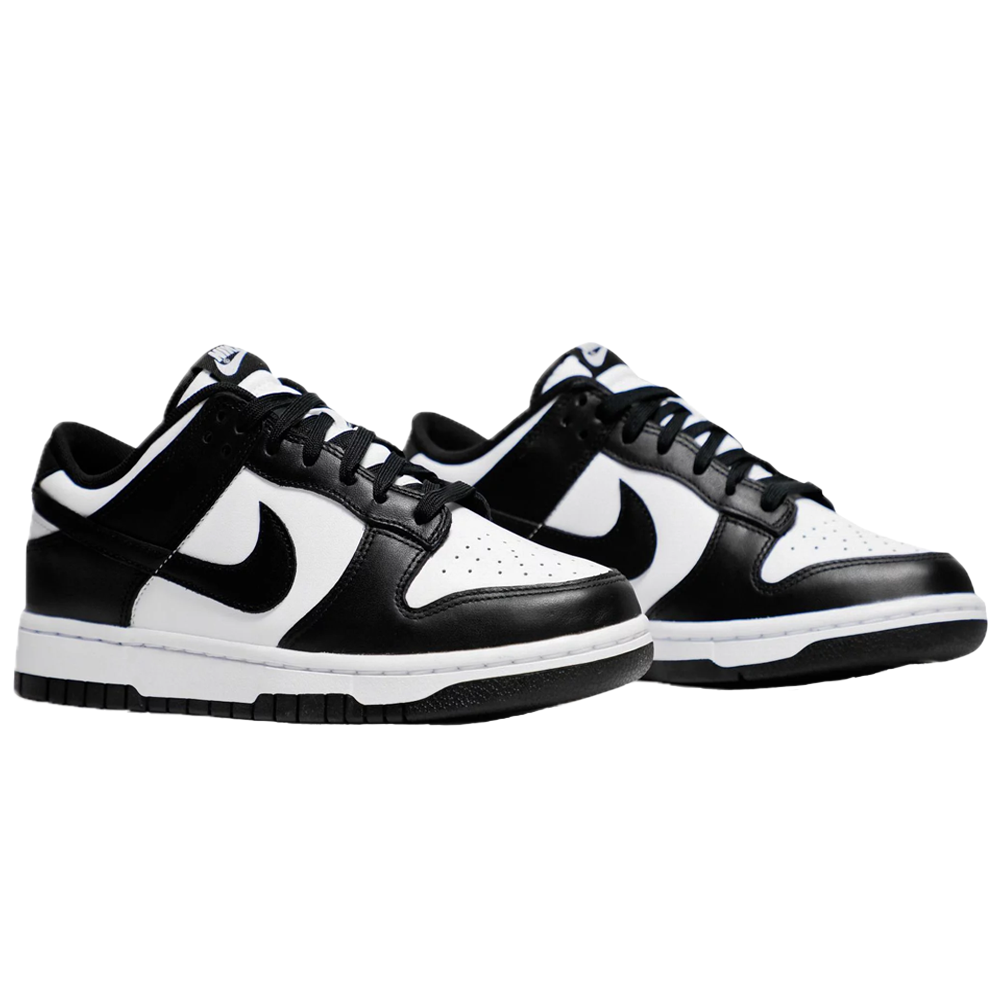
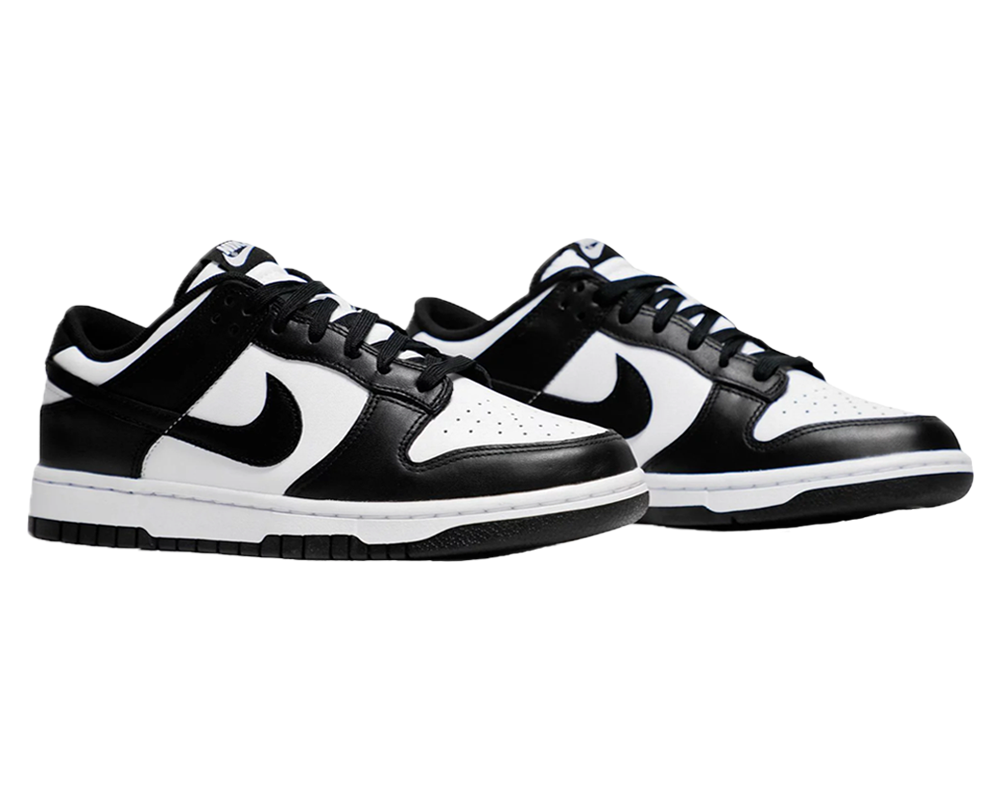
added size first

Changed region(s): [[0.0, 0.2812, 0.992, 0.75]]

diff --git a/topsneakers/pages/product/[slug].js b/topsneakers/pages/product/[slug].js
@@ -1,76 +1,69 @@
-import React from 'react';
+import React, { useContext } from 'react';
 import Layout from '../../components/Layout';
 import { useRouter } from 'next/router';
 import data from '../../utils/data';
 import Link from 'next/link';
 import Image from 'next/image';
-import Sizing from '../../components/Sizing';
+import ImageSlider from '../../components/ImageSlider';
+import { Store } from '../../utils/store';
 
 export default function ProductPage() {
     const { query } = useRouter();
     const { slug } = query;
     const product = data.products.find(x => x.slug === slug);
+    let sizePicked = "";
+    let pickedSize = false;
     if(!product){
         return <div>Product Not Found</div>
+    }
+    
+    const sizeClick = (size) => {
+        if (pickedSize === true) {
+            sizePicked = size;
+            console.log(`you picked size ${sizePicked}`)
+            console.log(`pickedSize is still ${pickedSize}`)
+        } else if (pickedSize === false) {
+            pickedSize = true;TodInt
+            sizePicked = size;
+            console.log(`pickedSize is now ${pickedSize}`)
+            console.log(`you picked size ${sizePicked}`)
+        }
+    }
+    
+    const addToCartHandler = () => {
+        if (pickedSize == true) {
+            dispatch ({ type: 'CART_ADD_ITEM', payload: { ...product, sizePicked: sizePicked, quantity: 1}})
+        }
     }
     return (
     <Layout title={product.name}>
         <div className="py-2">
             <Link href="/">Back to Products</Link>
         </div>
-        <div className="grid md:grid-cols-4 md:gap-3">
-            <div className="md:col-span-2">
-            <Image
-                id="featured"
-                src={product.image}
-                alt={product.name}
-                width={640}
-                height={640}
-                layout="responsive"
-            ></Image>
-            <div className="flex space-x-2">
-                <div class = "thumbnail active" className="relative sm:h-[100px] sm:w-[100px] sm:border-solid sm:border-2 md:h-[150px] md:w-[150px]">
-                    <Image
-                        src={product.image}
-                        alt={product.name}
-                        layout="fill"
-                        objectFit="cover"
-                        className="rounded-full hover:cursor-pointer hover:bg-[#F5F5DC]"
-                    ></Image>
+            <div className="grid md:grid-cols-4 md:gap-3">
+                <div className="md:col-span-3">
+                    <ImageSlider product={product}></ImageSlider>
                 </div>
-                <div class = "thumbnail" className="relative sm:h-[100px] sm:w-[100px] sm:border-solid sm:border-2 md:h-[150px] md:w-[150px]"> 
-                    <Image
-                        src="/images/pandalows2.png"
-                        layout="fill"
-                        className="rounded-full hover:cursor-pointer hover:bg-[#F5F5DC]"
-                        ></Image>
-                </div>
-                <div class = "thumbnail" className="relative sm:h-[100px] sm:w-[100px] sm:border-solid sm:border-2 md:h-[150px] md:w-[150px]"> 
-                    <Image
-                        src="/images/pandalows3.png"
-                        layout="fill"
-                        className="rounded-full hover:cursor-pointer hover:bg-[#F5F5DC]"
-                        ></Image>
-                </div>
-            </div>
-            </div>
-            <div>
-                <ul>
-                    <li> 
-                        <h1 className="text-lg">{product.name}</h1>
-                    </li>
-                    <li>Category: {product.category}</li>
-                    <li>Brand: {product.brand}</li>
-                    Sizes Available
-                    <div class="grid grid-cols-4 gap-4">
-                        {product.sizeAvailable.map((size) => (
-                            <div className="card">{size}</div>
-                        ))}
+                <div>
+                    <div>
+                        <ul>
+                            <li> 
+                                <h1 className="text-lg">{product.name}</h1>
+                            </li>
+                            <li>Category: {product.category}</li>
+                            <li>Brand: {product.brand}</li>
+                            Sizes Available
+                            <div class="grid grid-cols-4 gap-4">
+                                {product.sizeAvailable.map((size) => (
+                                    <button value={size} className="primary-button rounded-full" onClick={product => sizeClick(product.target.value)}>{size}</button>
+                                ))}
+                            </div>
+                            <li>{product.description}</li>
+                        </ul>
+                        <button className="primary-button rounded-full w-full" onClick={addToCartHandler}>Add to Cart</button>
                     </div>
-                    <li>{product.description}</li>
-                </ul>
+                </div>
             </div>
-        </div>
     </Layout>
   )
 }

diff --git a/topsneakers/utils/store.js b/topsneakers/utils/store.js
@@ -1,0 +1,32 @@
+import { createContext, useReducer } from 'react';
+
+export const Store = createContext();
+
+const initialState = {
+    cart: { cartItems: [] },
+};
+
+function reducer(state, action) {
+
+    switch(action.type) {
+        case 'CART_ADD_ITEM': {
+            const newItem = action.payload;
+            const existItem = state.cart.cartItems.find(
+                (item) => item.slug === newItem.slug
+            );
+            const cartItems = existItem? state.cart.cartItems.map((item) =>
+            item.name === existItem.name ? newItem : item
+        ):
+        [...state.cart.cartItems, newItem];
+        return { ...state, cart: { ...state.cart, cartItems}}
+        }
+        default:
+            return state;
+    }
+}
+
+export function StoreProvider({ children }) {
+    const [state, dispatch] = useReducer(reducer, initialState);
+    const value = {state, dispatch};
+    return <StoreProvider value={value}>{children}</StoreProvider>;
+}

diff --git a/topsneakers/components/ImageSlider.js b/topsneakers/components/ImageSlider.js
@@ -1,0 +1,28 @@
+import React, { useState } from 'react'
+
+
+function ImageSlider({product}) {
+
+    const [currentIndex, setCurrentIndex] = useState(0);
+
+    const goToSlide = (slideIndex) => {
+        setCurrentIndex(slideIndex);
+    }
+    
+    return (
+        <div>
+            <img className="object-cover md:h-[650px] md:w-[1000px]" src={product.images[currentIndex].src}></img>
+            <div>
+                <div className="flex space-x-4">
+                    {product.images.map((slide, slideIndex) => (
+                        <div onClick={() => goToSlide(slideIndex)} key = {slideIndex}>
+                            <img className="cursor-pointer hover:border-4 active:border-4 sm:h-[100px] sm:w-[100px] sm:border-solid sm:border-2 md:h-[150px] md:w-[150px]" src={slide.src}></img>
+                        </div>
+                    ))} 
+                </div>
+            </div>
+        </div>
+    )
+}
+
+export default ImageSlider

diff --git a/topsneakers/utils/data.js b/topsneakers/utils/data.js
@@ -10,6 +10,13 @@ const data = {
             rating: 4.9,
             NumReviews: 7,
             sizeAvailable: [6, 10],
+            images:
+                [
+                    { src: '/images/pandalows1.png', key: 1},
+                    { src: '/images/pandalows2.png', key: 2},
+                    { src: '/images/pandalows3.png', key: 3},
+                    { src: '/images/pandalows4.png', key: 4}
+                ],
             countInStock: 2,
             description: 'The upper Nike Dunk Low Retro White Black is constructed of white leather with black leather overlays and Swooshes. Classic Nike branding is featured on the nylon tongue, nodding to traditional Dunk design elements. A white midsole and black outsole completes the design'
         },

diff --git a/topsneakers/components/ProductItem.js b/topsneakers/components/ProductItem.js
@@ -10,7 +10,6 @@ function ProductItem({product}) {
                 <img
                     src={product.image}
                     alt={product.name}
-                    className="rounded shadow"
                 />
             </a>
         </Link>
